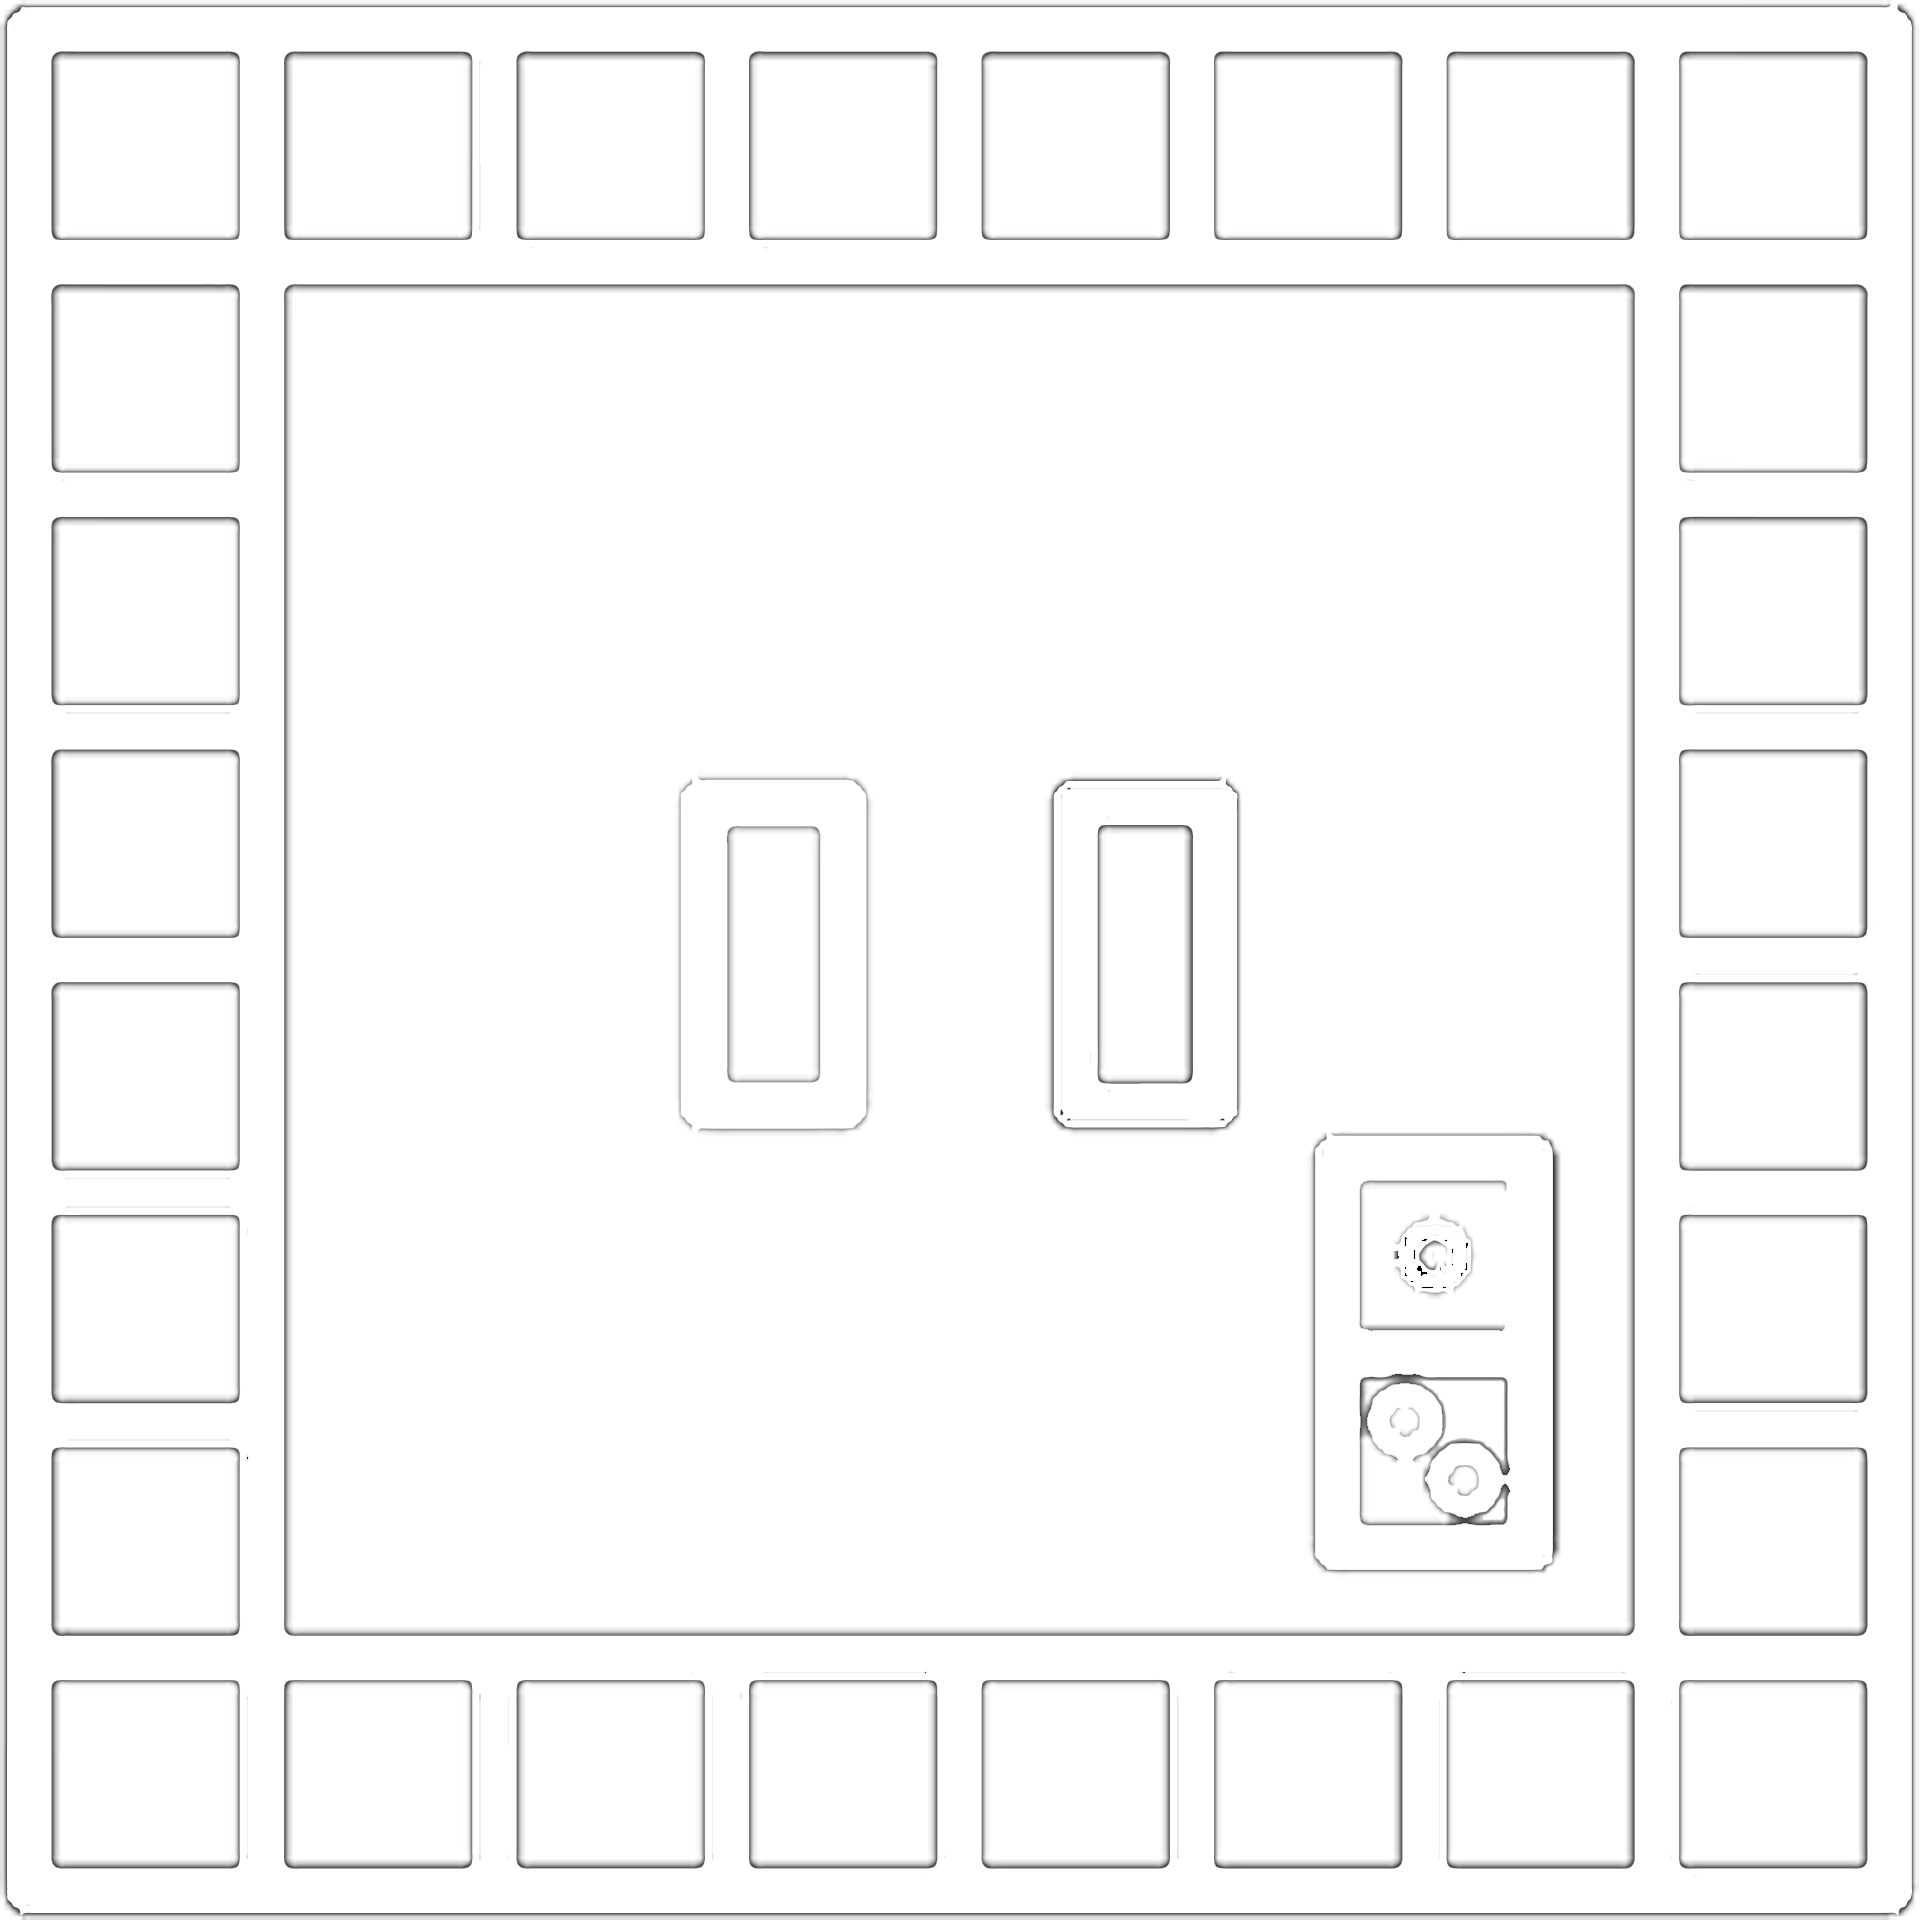
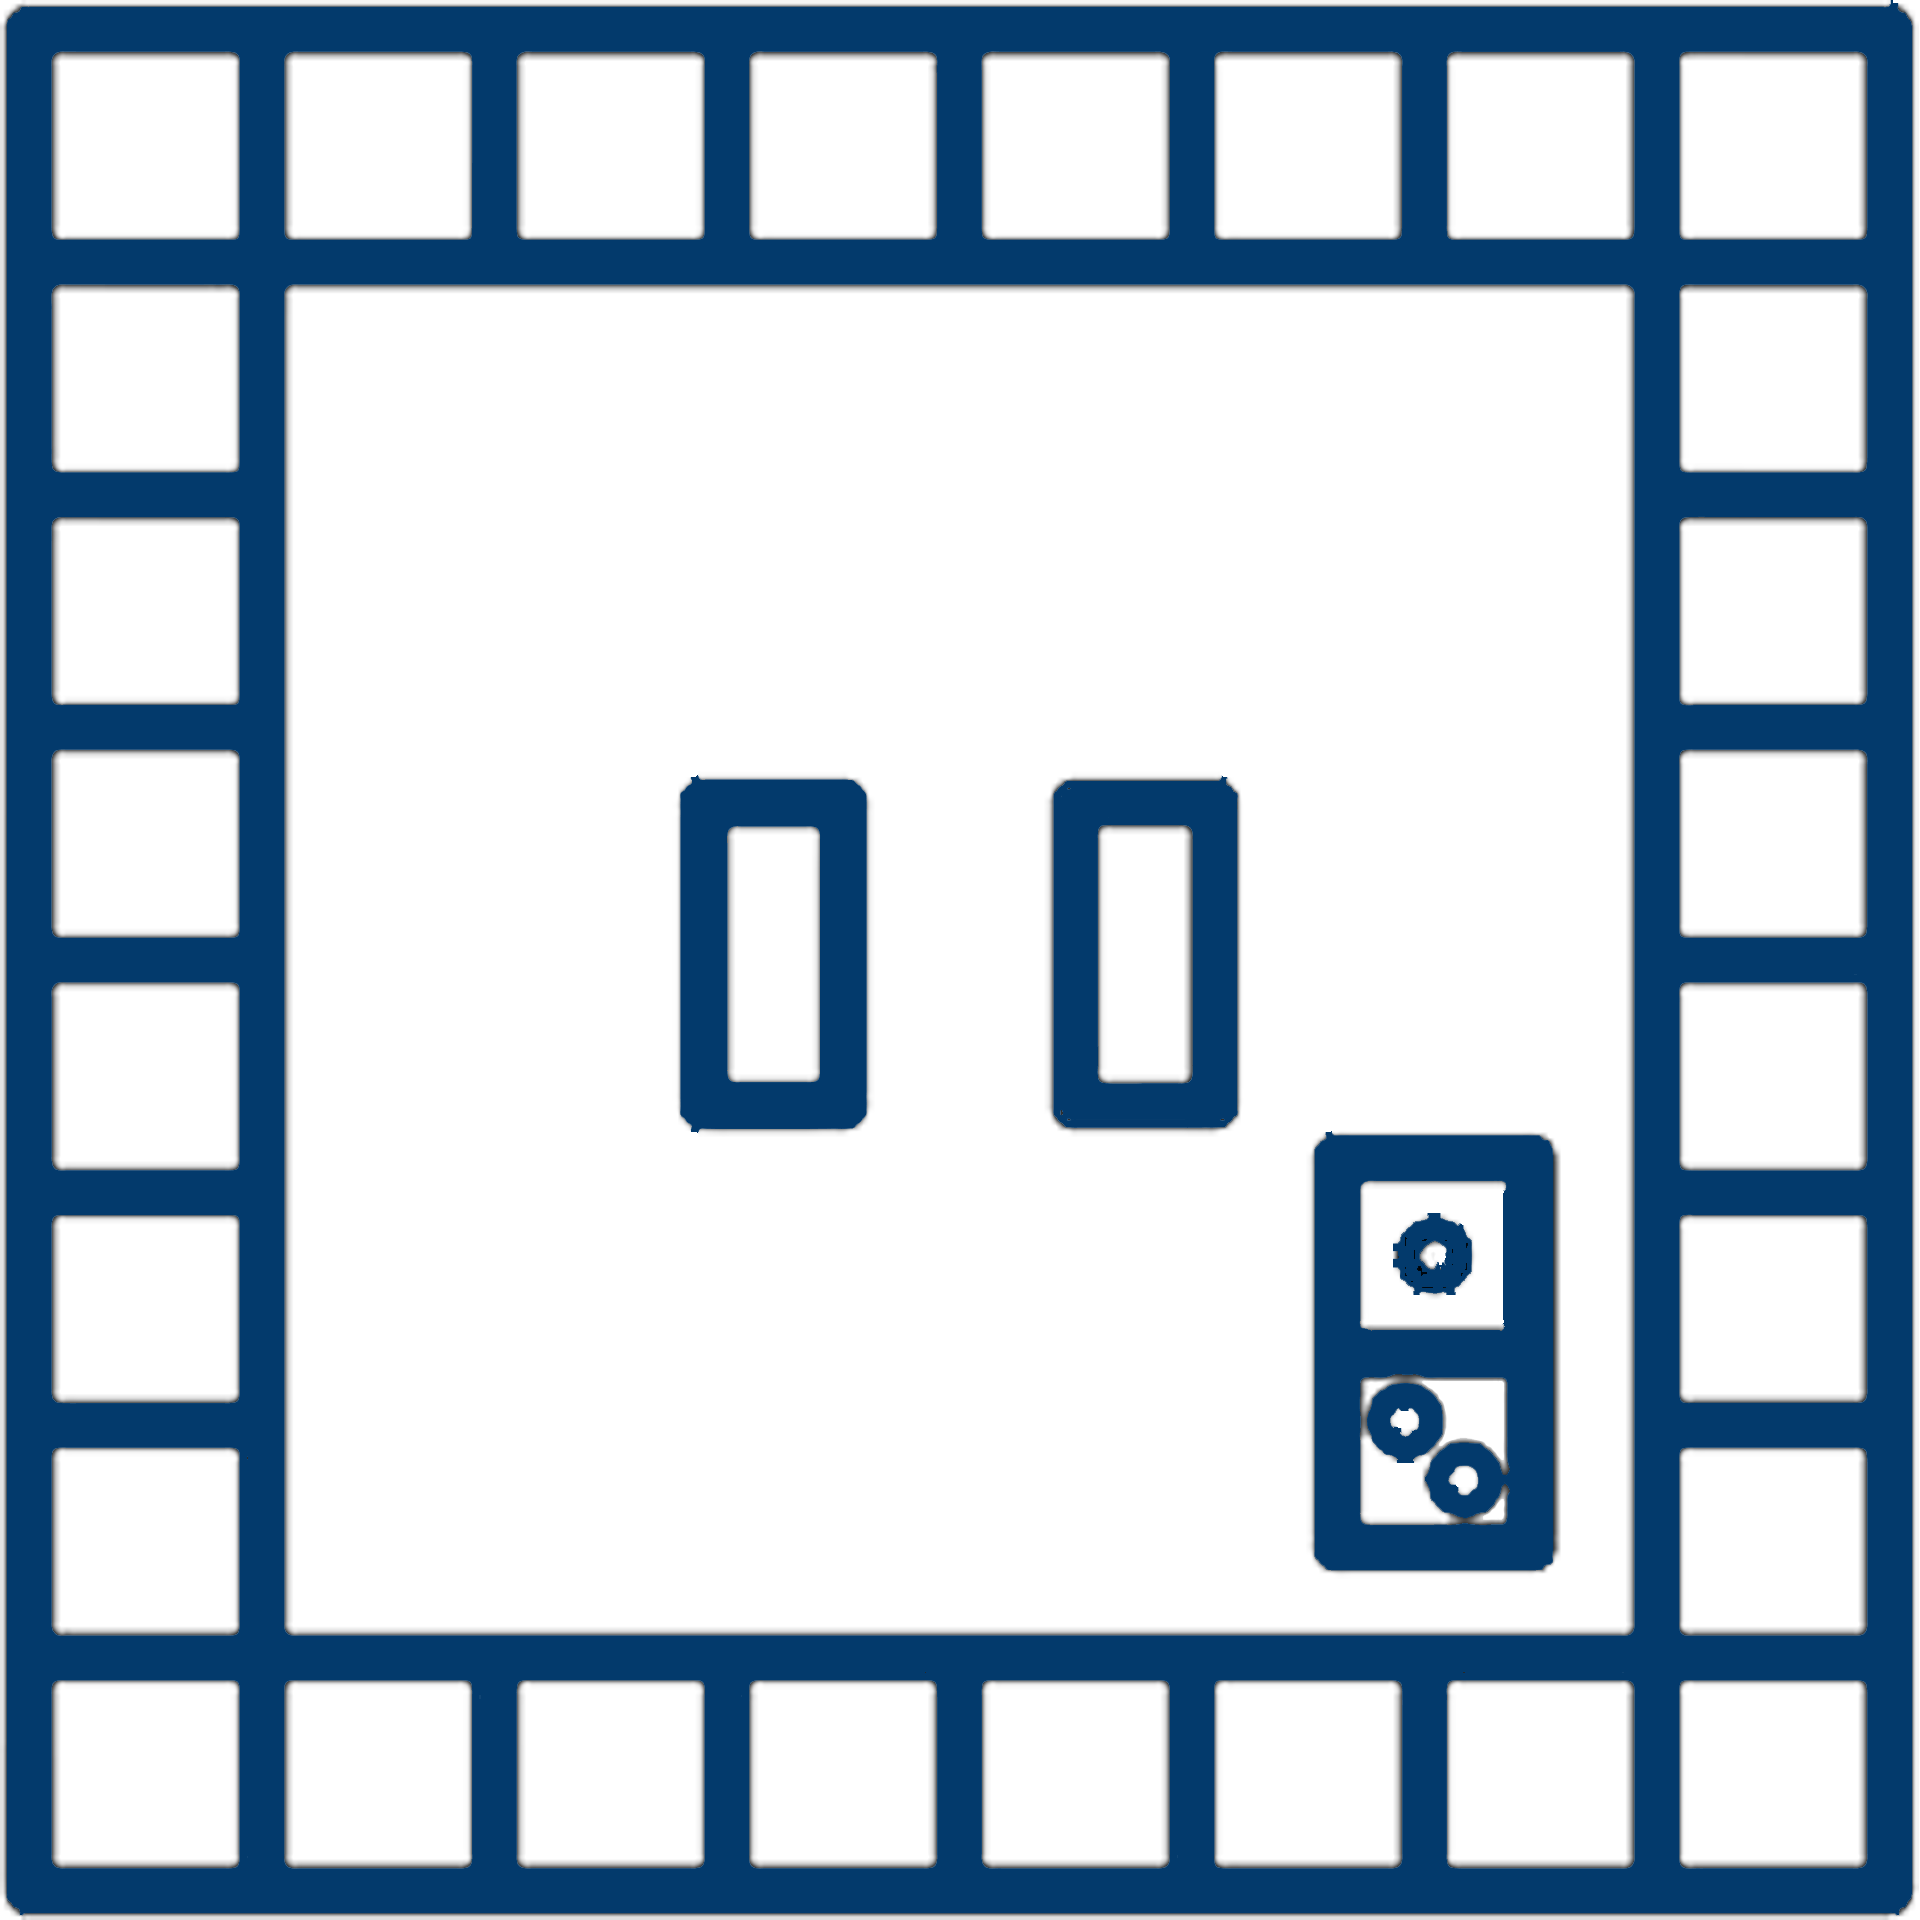
cambios de iconos, ajustes en el diseño de las cartas

Changed region(s): [[0.0, 0.0, 1.0, 1.0], [0.5312, 0.4062, 0.6562, 0.5938], [0.3438, 0.4062, 0.4688, 0.5938]]

diff --git a/TableroLibre/src/Components/ProductCard/ProductCard.css b/TableroLibre/src/Components/ProductCard/ProductCard.css
@@ -13,11 +13,13 @@
     flex-direction: column;
     justify-content: center;
     align-items: center;
-    background-image: url('../../assets/card-background.png');
     background-size: 100%;        
     background-position: center;    
     background-repeat: no-repeat;
     justify-content: space-between;
+    background-color: #fbf1e0;
+    border-radius: 2%;
+    overflow: hidden;
 }
 
 
@@ -28,22 +30,22 @@
     flex-direction: row;
     align-items: center;
     justify-content: space-between;  
-    width: 85%;
-    margin-bottom: 10%;
-    height: 10%;
-    padding-top: 2%;
+    width: 98%;
+    height: 15%;
     
 }
 
+
+
 .category-icon {
-    height: 90%;
+    height: 80%;
     aspect-ratio: 1;
 }
 
 .card-image {
-    width: 80%;
-    height: 30%;
-    margin-bottom: 10%;
+    aspect-ratio: 1;
+    height: 45%;
+    border-radius: 10%;
 }
 
 .card-characteristics {
@@ -65,20 +67,33 @@
     justify-content: start;
     align-items: center;
 
+
 }
 
 .detail-icon {
-    height: 70%;
+    height: 80%;
     aspect-ratio: 1;
     margin-right: 10%;
 }
 
 
 .card-price {
-    height: 15%;
-    padding-bottom: 10%;
+    height: 10%;
+    background-color: #04a4ff;
+    width: 100%;
+    align-items: center;
+    justify-content: center;
+    display: flex;
+    padding-bottom: 2%;
 }
 
+.card-price > h1 {
+    color: white;
+}
+
+.card-price > h1::first-letter {
+    color: #024d82; 
+  }
 
 p {
     font-size: larger;

diff --git a/TableroLibre/src/Components/ProductCard/ProductCard.jsx b/TableroLibre/src/Components/ProductCard/ProductCard.jsx
@@ -20,7 +20,7 @@ const ProductCard = ({product, onClick}) => {
             <div className='productcard-wrapper' onClick={onClick}> 
                 <div className='card'>
                 <div className='card-header'>
-                    <p>{product.name}</p>    
+                    <h3>{product.name}</h3>    
                     <img src={categoryIcons[product.category]} className='category-icon'/> 
                 </div>               
                 <img src={product.image_url} alt="product image" className='card-image'/>
@@ -32,11 +32,11 @@ const ProductCard = ({product, onClick}) => {
                </div>
                <div className='card-detail'>
                 <img src={age} className='detail-icon'/>
-               <p>{product.age}</p>
+               <p>{product.age}+</p>
                </div>
                <div className='card-detail'>
                 <img src={duration} className='detail-icon'/>
-               <p>{product.duration}</p>
+               <p>{product.duration}'</p>
                </div>
                <div className='card-detail'>
                 <img src={players} className='detail-icon'/>

diff --git a/TableroLibre/src/Components/ProductsGrid/ProductsGrid.css b/TableroLibre/src/Components/ProductsGrid/ProductsGrid.css
@@ -5,13 +5,14 @@
     gap: 1%;                                /* Espacio entre cards */
     width: 80%;
     aspect-ratio: 1;   
-    border: 5px solid black;
+    border: 2px solid #024d82;
     border-radius: 1%;
     height: 100%;
     overflow: hidden;
     padding: 1%;
-    background-color: rgb(146, 75, 5);
+    background-image: url('../../assets/grid-background.png');
     padding: 2%;
+
 }
 
 

diff --git a/TableroLibre/src/Components/Product/Product.jsx b/TableroLibre/src/Components/Product/Product.jsx
@@ -19,7 +19,7 @@ const Product = ({ product }) => {
           <hr />
           <div className="informacionDeProducto">
             <p>Edad mínima: {product.age}</p>
-            <p>Duración estimada: {product.duration}</p>
+            <p>Duración estimada: {product.duration} min</p>
             <p>Cantidad de jugadores: {product.players}</p>
           </div>
         </div>

diff --git a/TableroLibre/src/index.css b/TableroLibre/src/index.css
@@ -11,4 +11,5 @@
   text-rendering: optimizeLegibility;
   -webkit-font-smoothing: antialiased;
   -moz-osx-font-smoothing: grayscale;
+  color: #044070;
 }
